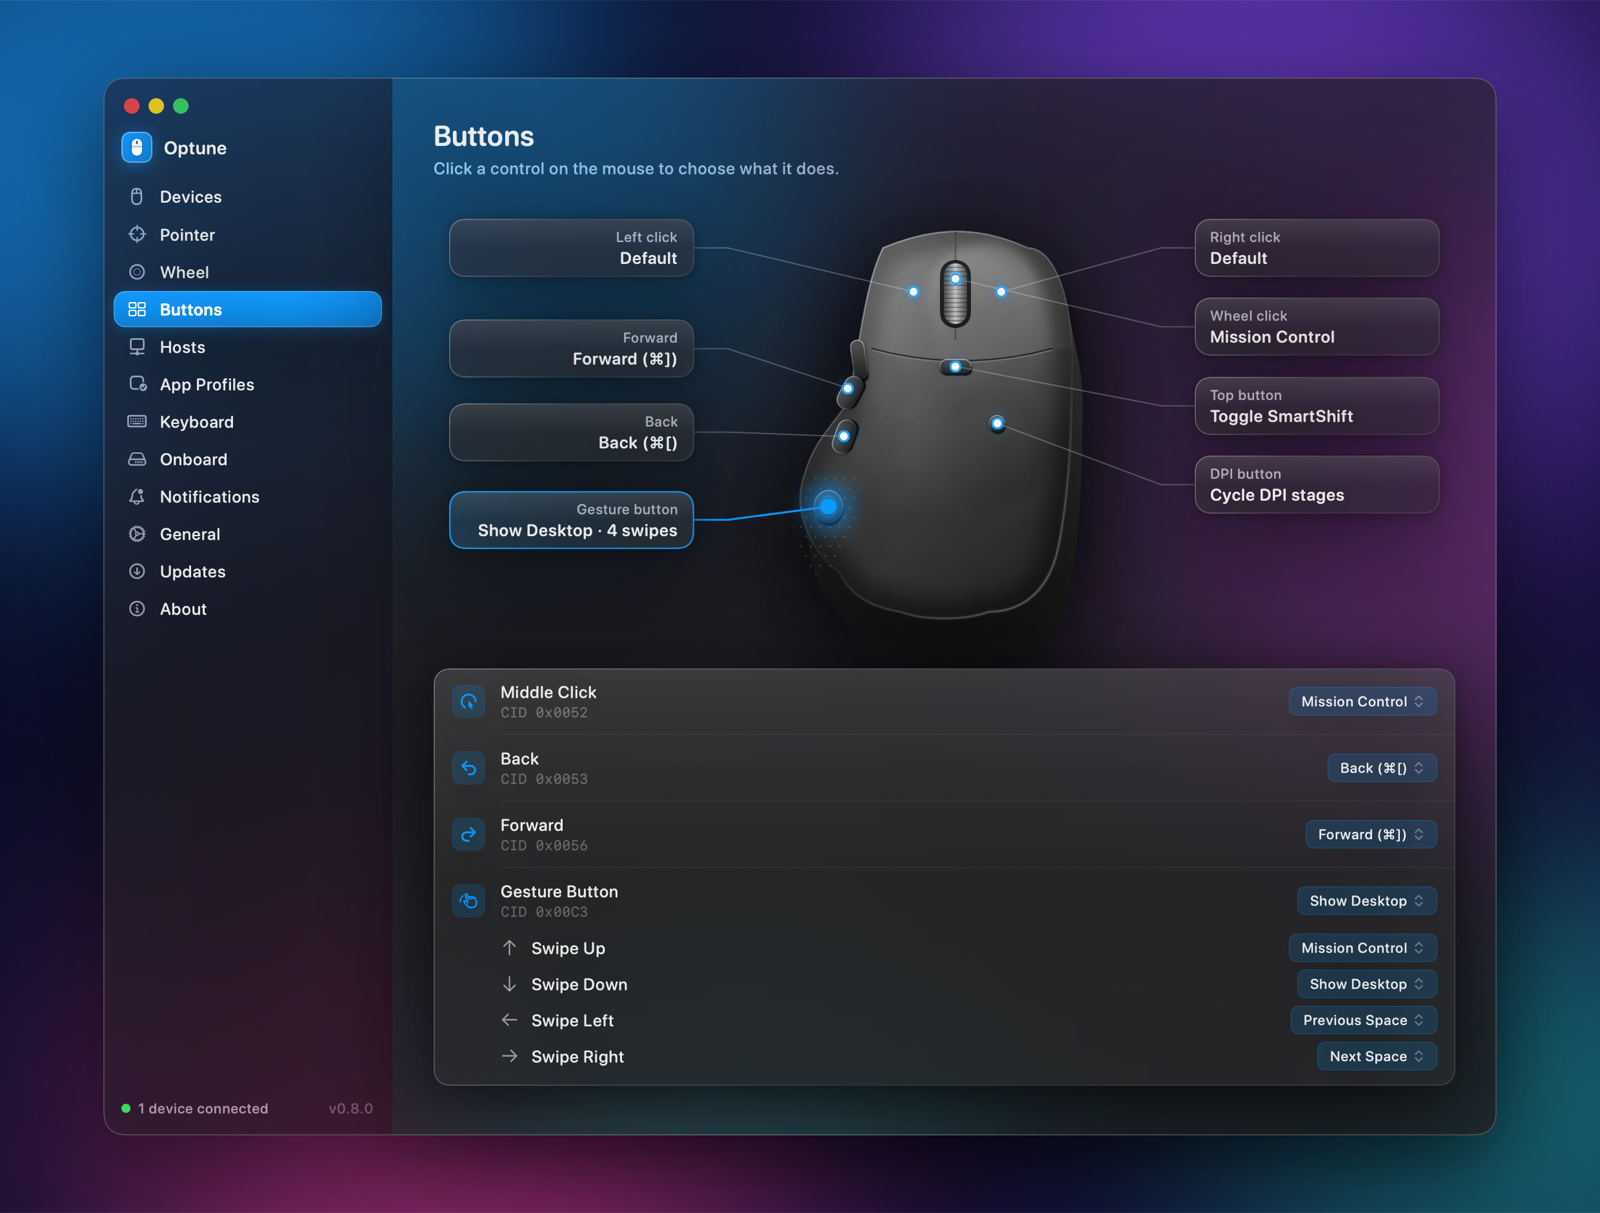
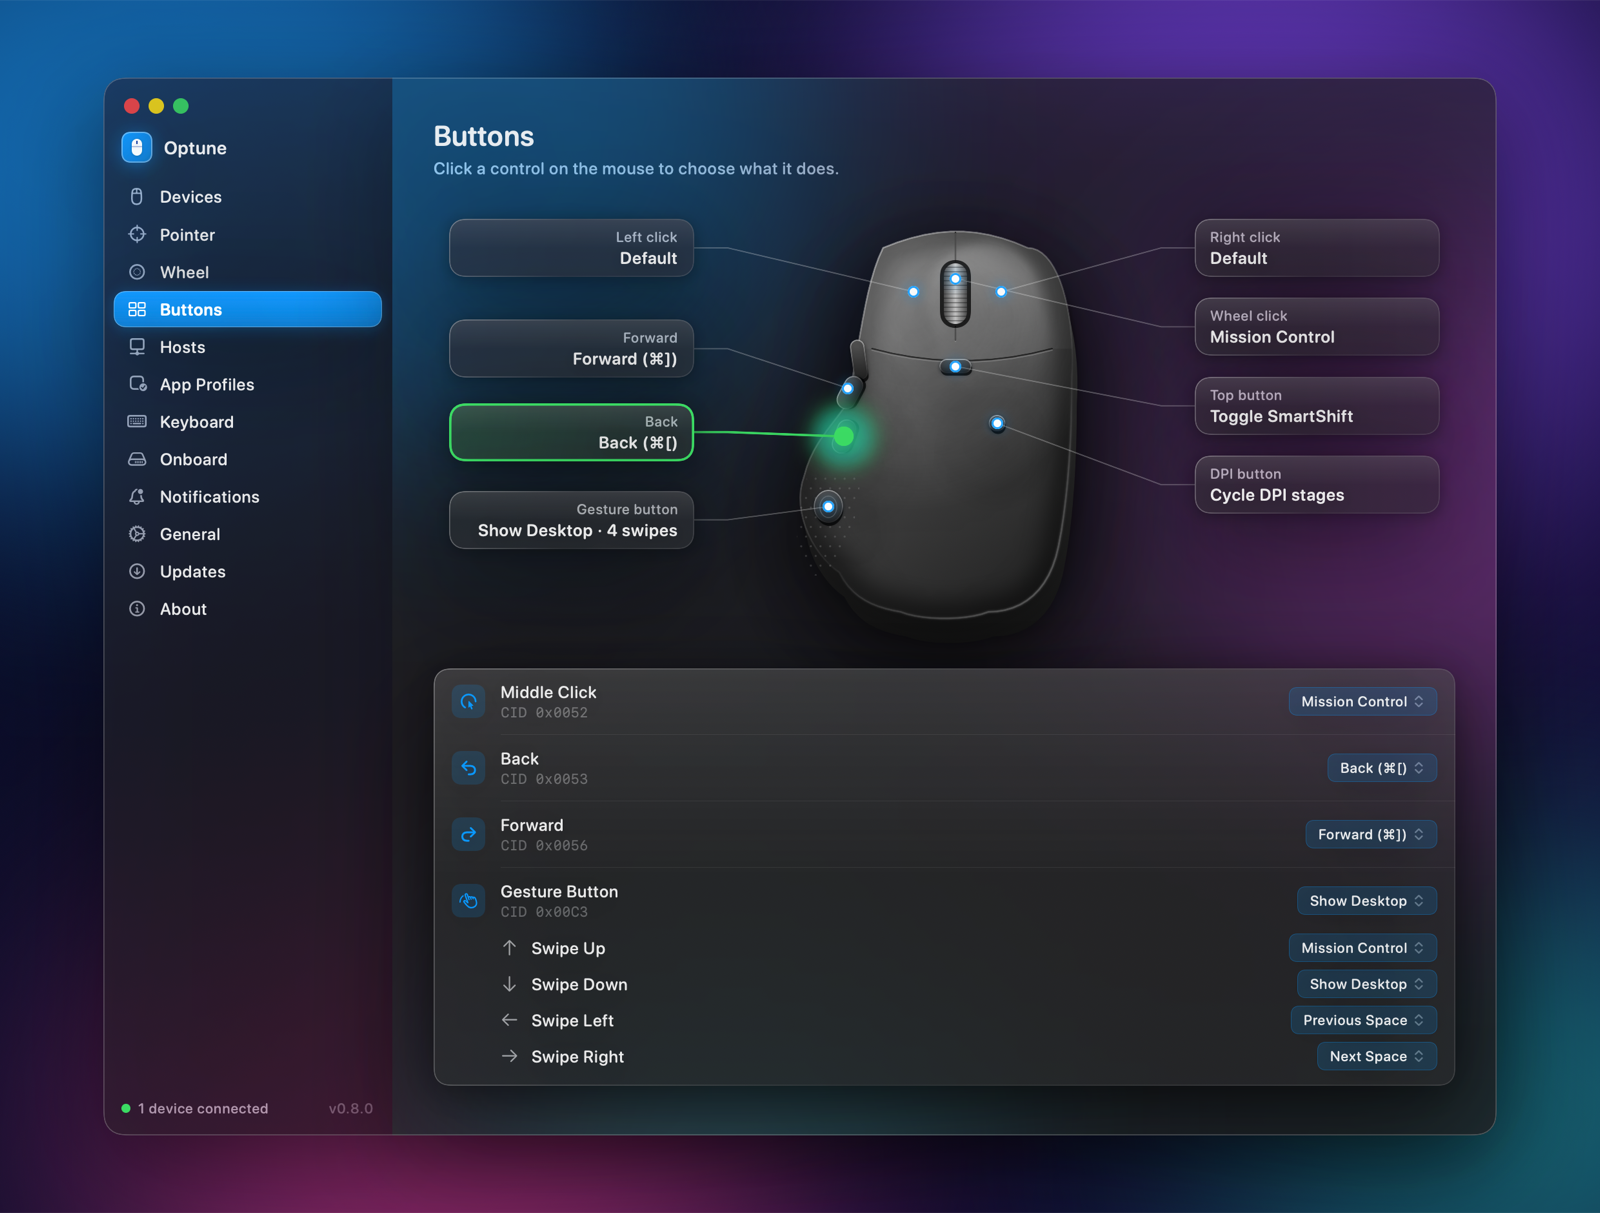
docs: press-a-button-to-find-it in README, changelog, Buttons docs; refreshed screenshots

Changed region(s): [[0.5, 0.305, 0.5625, 0.4575], [0.2812, 0.366, 0.4062, 0.4575]]

diff --git a/README.md b/README.md
@@ -34,7 +34,7 @@ brew install --cask optune
 | 🔋 **Battery insights** | 14 days of history, drain rate, time-remaining estimate, charge count, and a per-device low-battery alert. |
 | 🎯 **DPI stages** | Save up to six DPI stages, switch from the menu bar in one click, or cycle with <kbd>⌃</kbd><kbd>⌥</kbd><kbd>D</kbd> from anywhere. |
 | 🖐 **Gesture button** | Hold the thumb button and swipe up, down, left or right — each direction runs its own action. |
-| 🧭 **Button remapping** | Click a control on an illustrated mouse and rebind it to keystrokes, media keys, mouse clicks, Mission Control, apps, or shell commands. |
+| 🧭 **Button remapping** | Click a control on an illustrated mouse — or just press the button on your real mouse to find it — and rebind it to keystrokes, media keys, mouse clicks, Mission Control, apps, or shell commands. |
 | 🪟 **Per-app profiles** | DPI, SmartShift and wheel settings follow the app you're using. |
 | 🔀 **Multi-host** | See paired hosts and switch Easy-Switch slots — or press <kbd>⌃</kbd><kbd>⌥</kbd><kbd>1–3</kbd>. |
 | ⚡ **Automation** | Opt-in `optune://` links for Shortcuts and scripts, a polling-rate picker, and automatic settings backup. |

diff --git a/CHANGELOG.md b/CHANGELOG.md
@@ -5,6 +5,11 @@ Format follows [Keep a Changelog](https://keepachangelog.com/en/1.1.0/), version
 
 ## [Unreleased]
 
+### Added — Press a button to find it
+- While the Buttons pane is open, **pressing a button on your mouse lights it up on the map** and selects it so you
+  can reassign it straight away. Optune takes over the reprogrammable controls for the duration — remaps are paused
+  and everything is handed back when you leave the page. Left and right click can't be detected this way.
+
 ### Added — Visual button map
 - The Buttons pane now shows an **illustrated mouse with a callout on each control**. Click a callout (or its dot)
   to see what it does and change it in place, including the gesture swipes. The full list remains below.

diff --git a/docs/site/pages/buttons.md b/docs/site/pages/buttons.md
@@ -68,3 +68,10 @@ optune buttons --reset-all
 ```
 
 The CLI uses the same action identifiers the catalog uses — you can find the full list with `optune buttons --catalog`.
+
+
+## Press a button to find it
+
+Open **Buttons** and press any button on your mouse. Its callout on the illustrated mouse lights up green and is selected, so you can change what it does straight away.
+
+To make this work, Optune takes over the mouse's reprogrammable controls while the page is open: your remaps are paused (a press won't trigger its action) and the controls are handed back, with your saved bindings re-applied, as soon as you leave the page. Left and right click aren't reprogrammable, so they can't be detected this way — they work normally.
